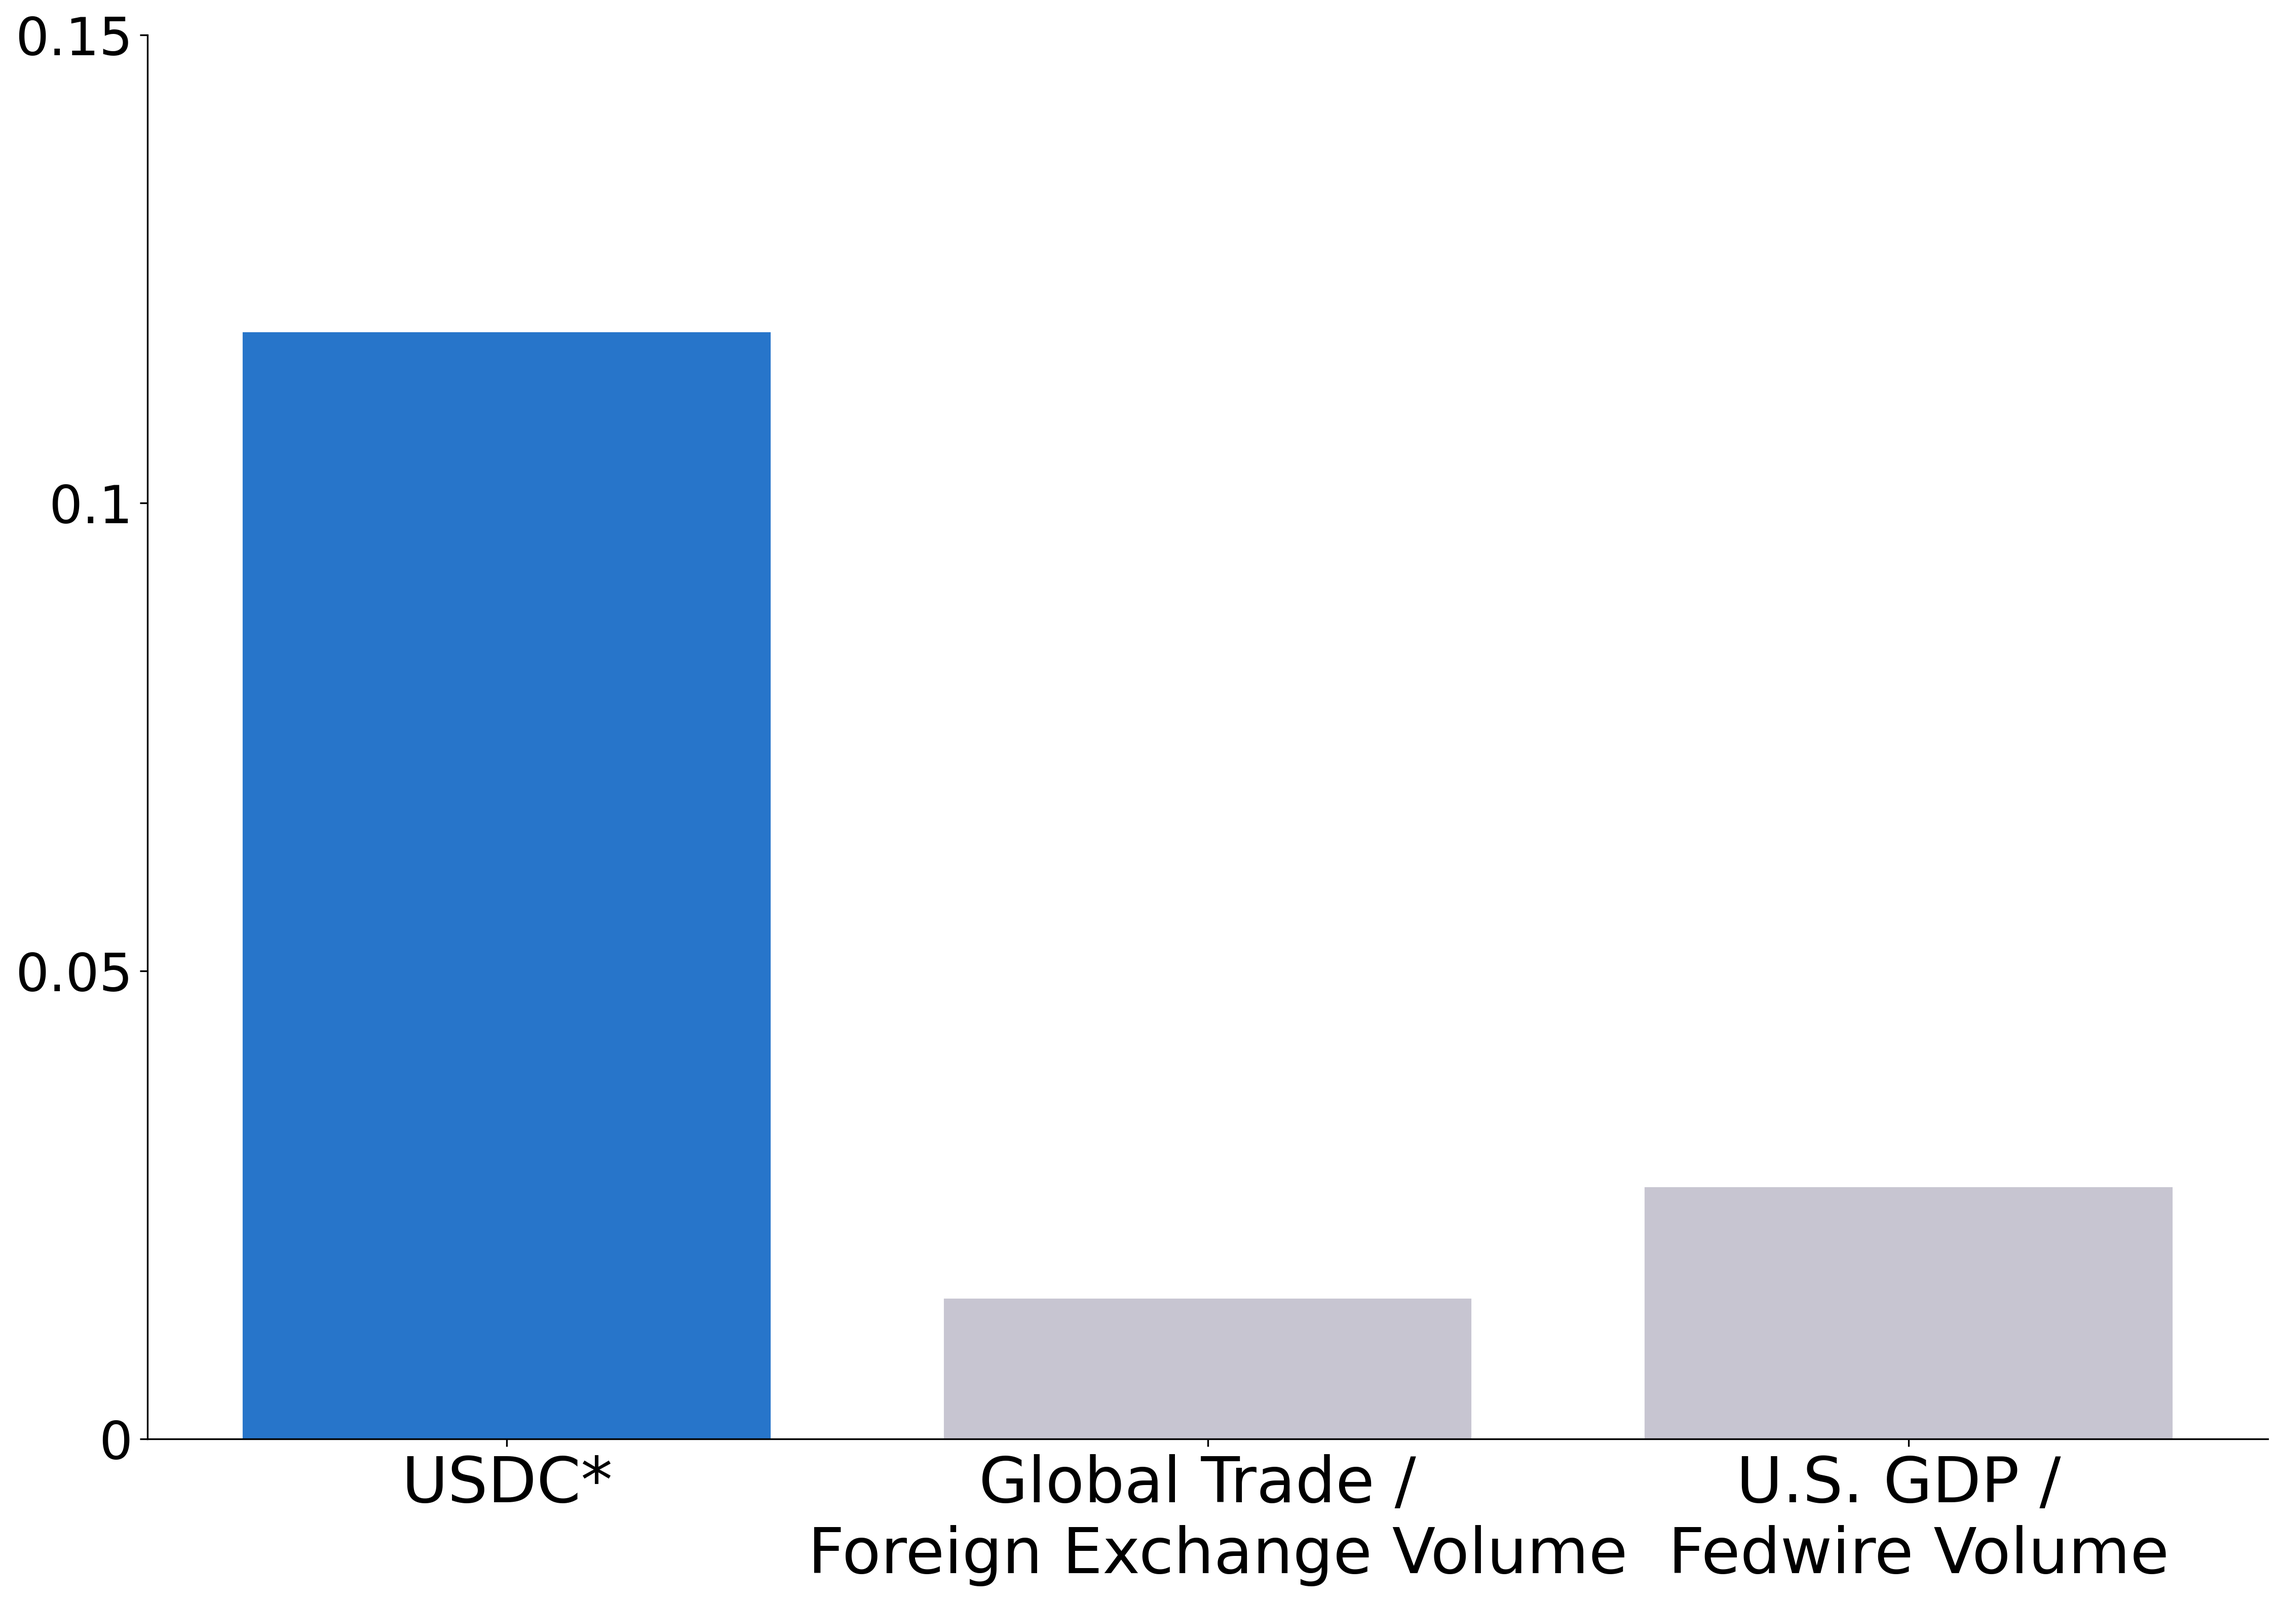
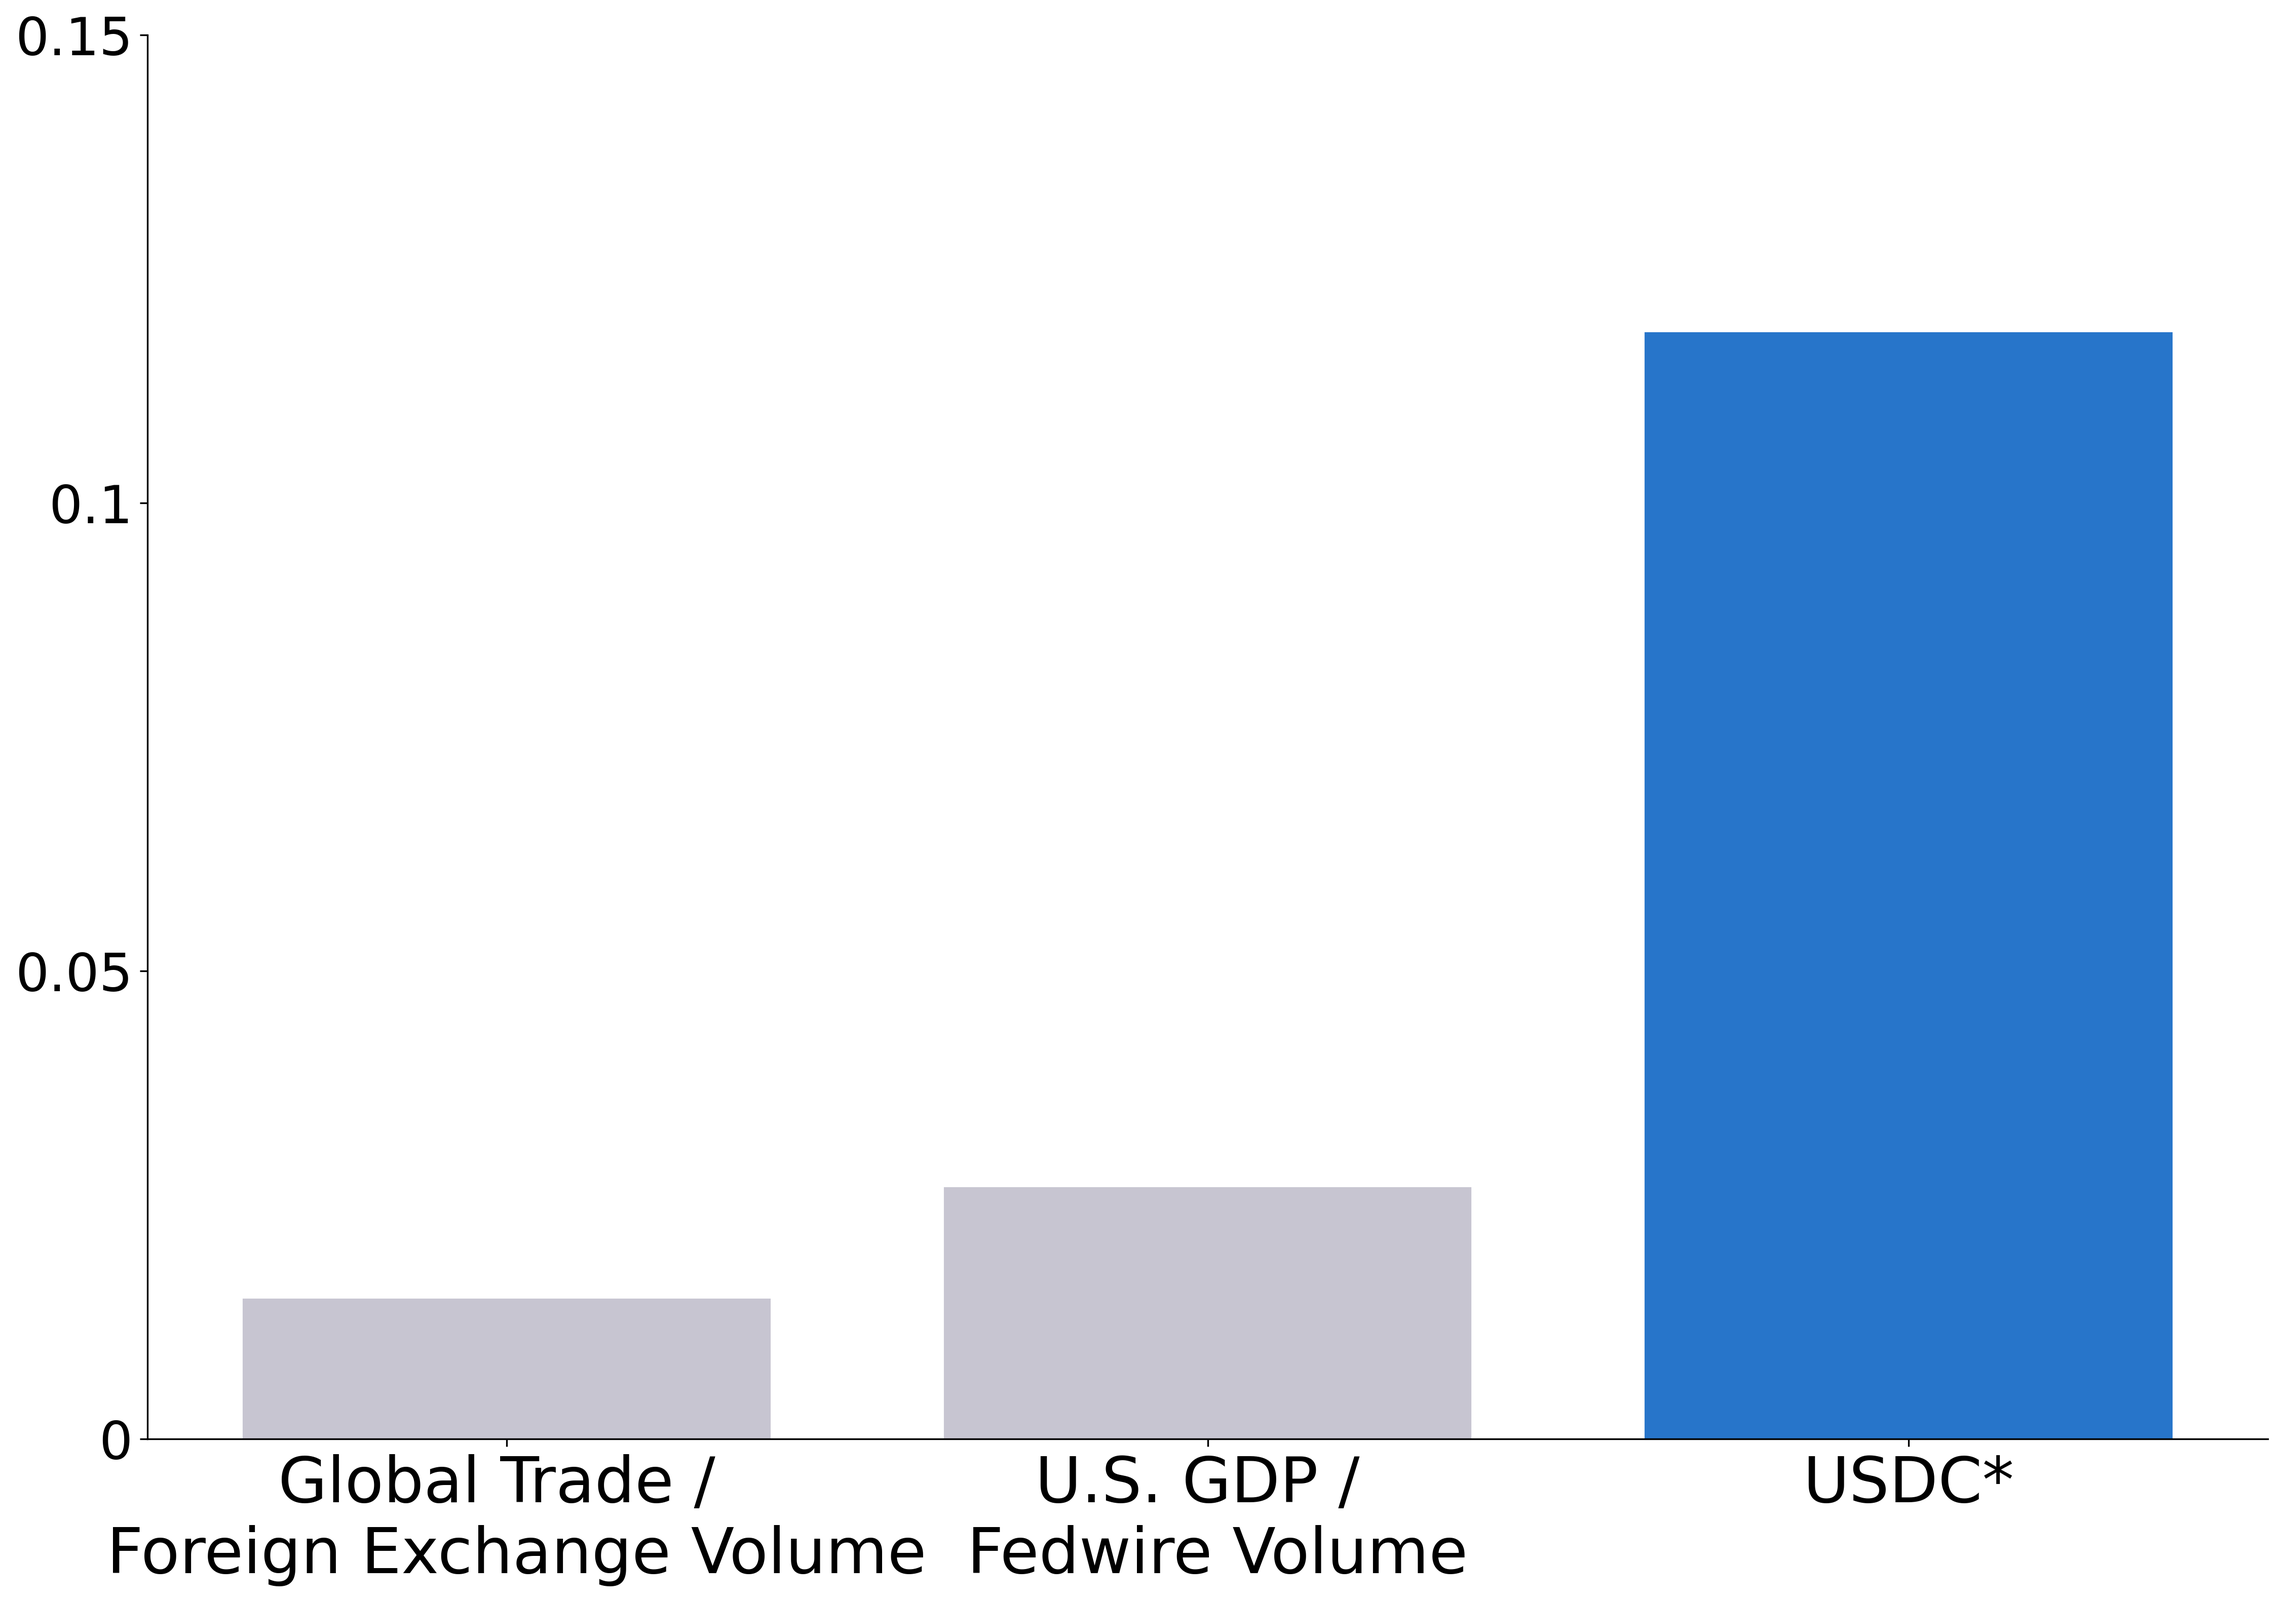
bar order

diff --git a/code/figure4_real_world_value.py b/code/figure4_real_world_value.py
@@ -93,19 +93,19 @@ def plot_wallet_to_wallet():
     ax.yaxis.grid(False)
 
     bars = plt.bar(
-        ["USDC Wallet to Wallet", "Cross-boarder trade to FX", "GDP to Fedwire"],
-        [usdc, cross_boarder_trade_to_fx, gdp_to_fedwire],
+        ["Cross-boarder trade to FX", "GDP to Fedwire", "USDC Wallet to Wallet"],
+        [cross_boarder_trade_to_fx, gdp_to_fedwire, usdc],
         width=0.75,
     )
-    bars[0].set_color("#2775ca")
+    bars[0].set_color("#c7c5d1")
     bars[1].set_color("#c7c5d1")
-    bars[2].set_color("#c7c5d1")
+    bars[2].set_color("#2775ca")
 
     ax.set_xticklabels(
         [
-            "USDC*",
             "Global Trade / \n Foreign Exchange Volume",
             "U.S. GDP / \n Fedwire Volume",
+            "USDC*",
         ],
         fontsize=30,
         font="Proxima Nova",

diff --git a/code/figure5_ofac_compliant.py b/code/figure5_ofac_compliant.py
@@ -36,14 +36,18 @@ def plot_sanction_compliant():
     ax.yaxis.grid(False)
 
     bars = plt.bar(
-        ["USDC", "U.S. Dollar (M2)"],
-        [usdc_ofac_tracable, usd_ofac_tracable],
+        ["U.S. Dollar (M2)", "USDC"],
+        [usd_ofac_tracable, usdc_ofac_tracable],
         width=0.75,
     )
-    bars[0].set_color("#2775ca")
-    bars[1].set_color("#c7c5d1")
+    bars[0].set_color("#c7c5d1")
+    bars[1].set_color("#2775ca")
 
-    ax.set_xticklabels(["USDC", "U.S. Dollar (M2)"], fontsize=30, font="Proxima Nova")
+    ax.set_xticklabels(
+        ["U.S. Dollar (M2)", "USDC"],
+        fontsize=30,
+        font="Proxima Nova",
+    )
 
     ax.spines["top"].set_visible(False)
     ax.spines["right"].set_visible(False)
